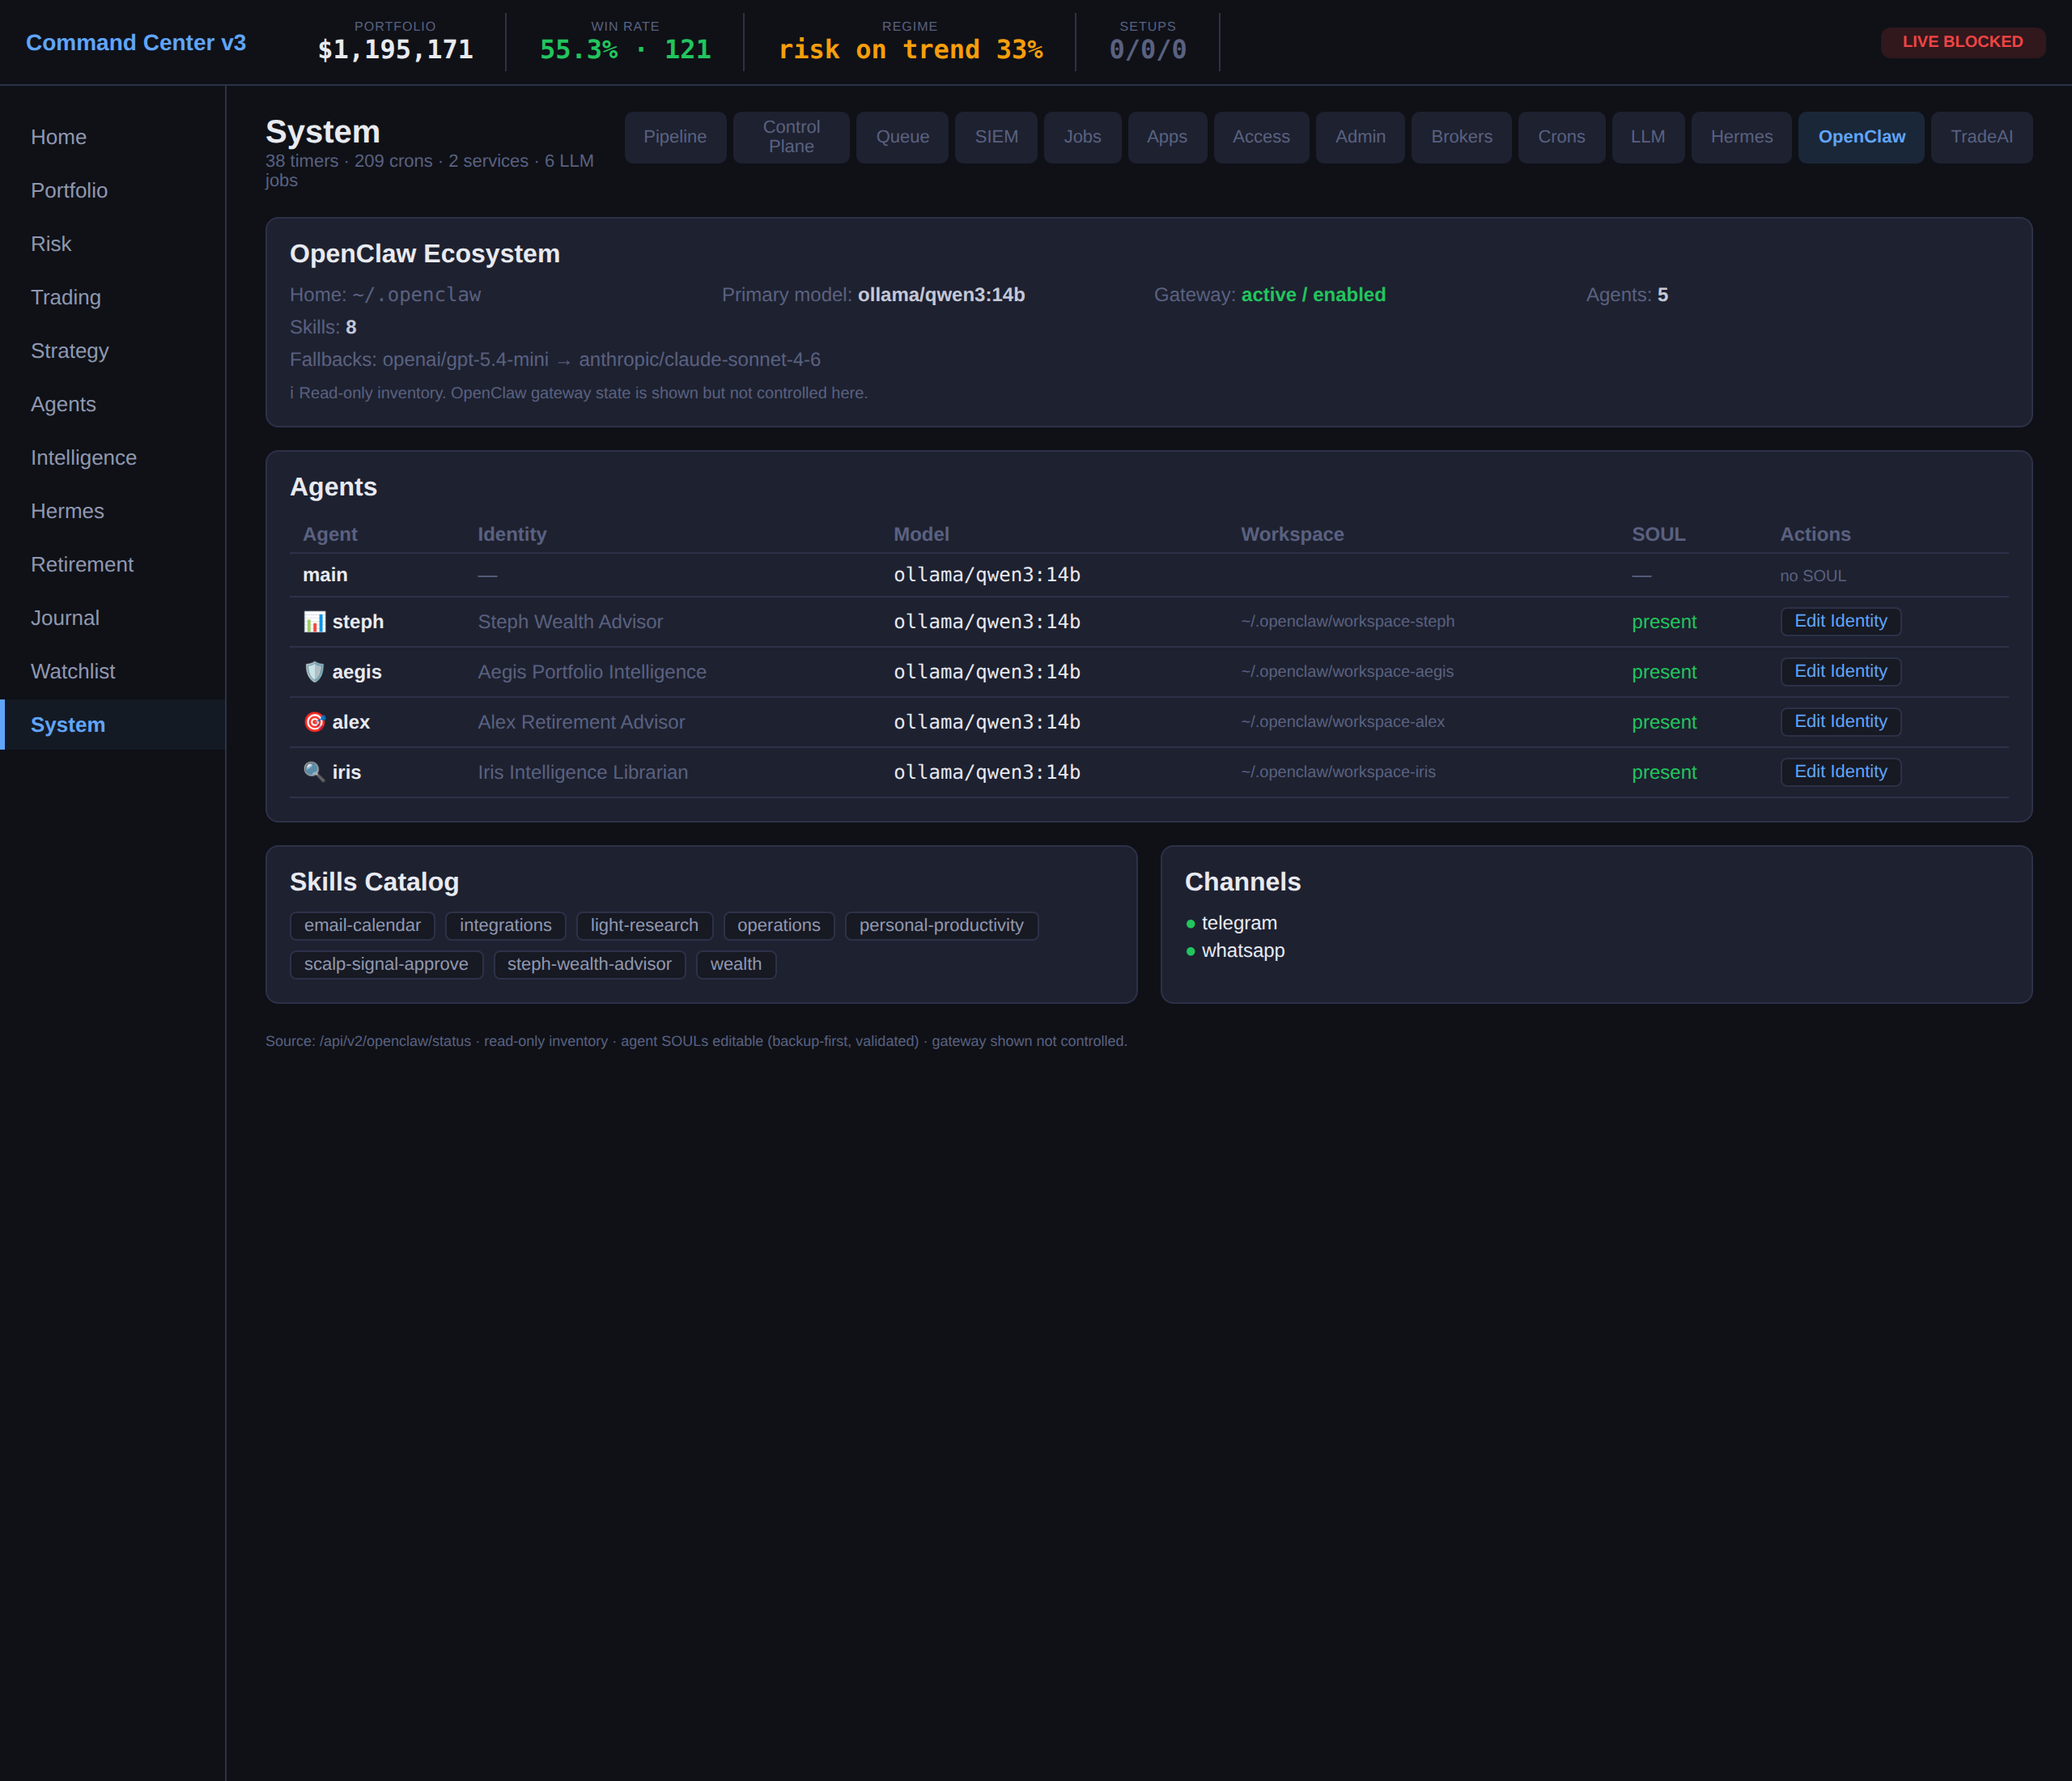
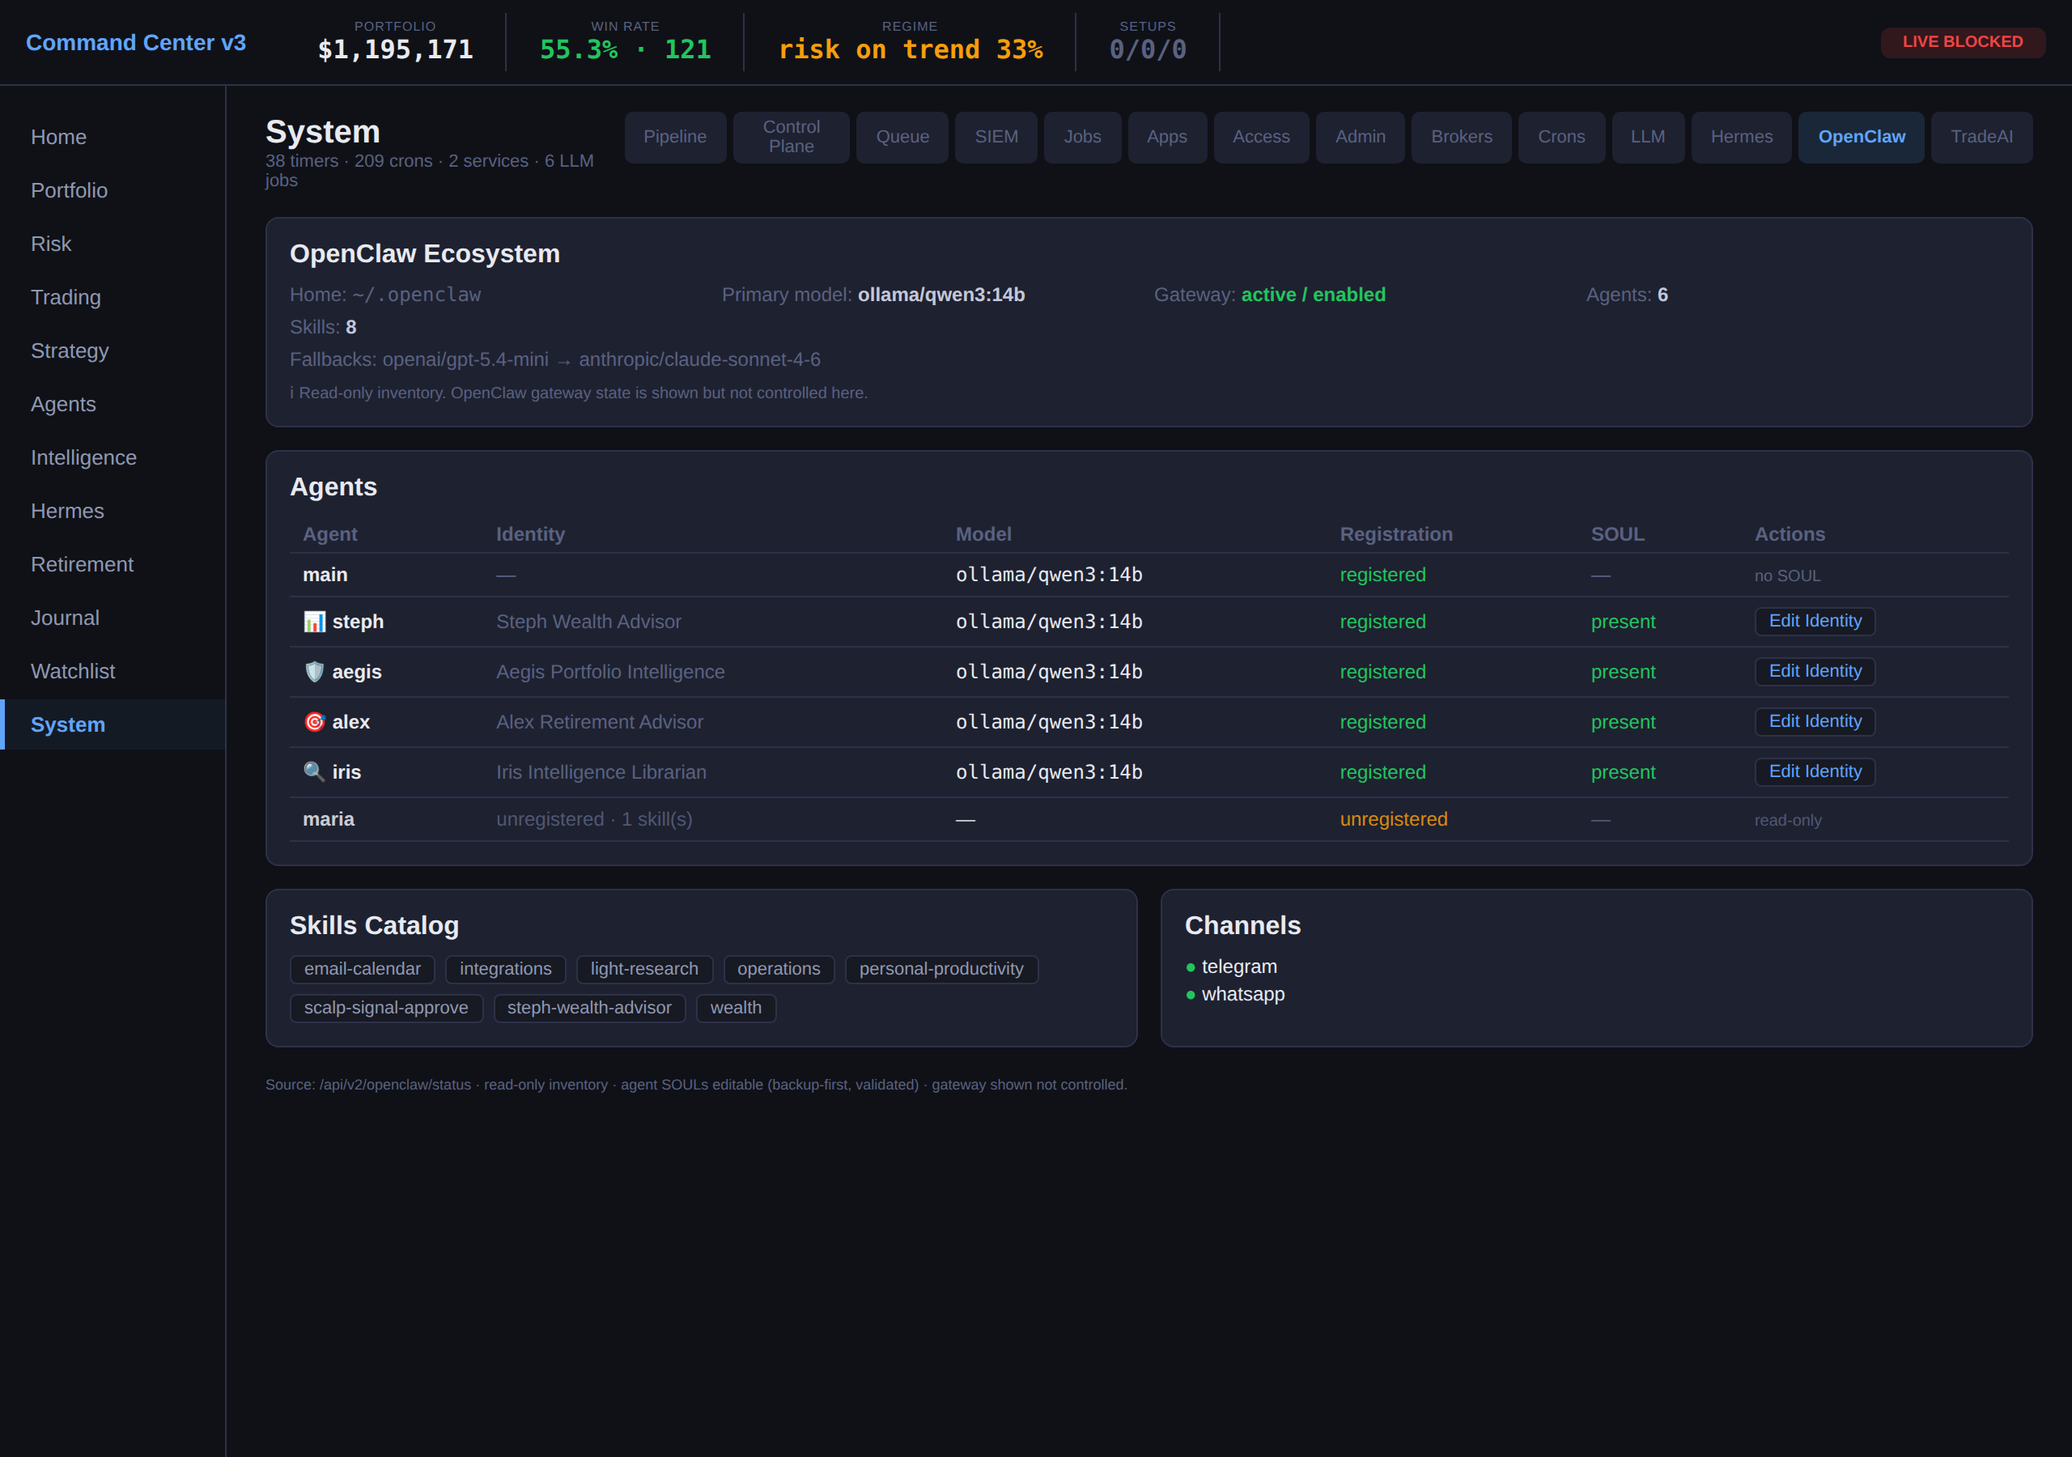
feat: surface unregistered OpenClaw agent dirs (maria) as read-only rows
_openclaw_status now appends on-disk ~/.openclaw/agents/* dirs not in openclaw.json as
read-only rows (registered=false, model/identity none, skills from their skills/ dir).
maria now shows: unregistered, read-only, 1 skill (nyc-dof-auction), no SOUL/edit.
OpenClawPanel adds a Registration column (registered/unregistered) + read-only marker.
v3 build OK, 0 console errors. Editable SOUL stays restricted to registered agents.

Changed region(s): [[0.125, 0.0, 1.0, 0.7467], [0.0, 0.0933, 0.0625, 0.4667], [0.0, 0.0, 0.125, 0.0622]]

diff --git a/apps/command-center-v3/src/components/OpenClawPanel.tsx b/apps/command-center-v3/src/components/OpenClawPanel.tsx
@@ -35,20 +35,20 @@ export default function OpenClawPanel() {
         <div style={{ fontWeight: 700, marginBottom: 8 }}>Agents</div>
         <table style={{ width: '100%', borderCollapse: 'collapse', fontSize: 12 }}>
           <thead><tr style={{ color: 'var(--text3)', textAlign: 'left' }}>
-            {['Agent', 'Identity', 'Model', 'Workspace', 'SOUL', 'Actions'].map(h => <th key={h} style={{ padding: '4px 8px', borderBottom: '1px solid var(--border)' }}>{h}</th>)}
+            {['Agent', 'Identity', 'Model', 'Registration', 'SOUL', 'Actions'].map(h => <th key={h} style={{ padding: '4px 8px', borderBottom: '1px solid var(--border)' }}>{h}</th>)}
           </tr></thead>
           <tbody>
             {(st?.agents || []).map((a: any) => (
-              <tr key={a.id} style={{ borderBottom: '1px solid var(--border)' }}>
+              <tr key={a.id} style={{ borderBottom: '1px solid var(--border)', opacity: a.registered === false ? 0.85 : 1 }}>
                 <td style={{ padding: '6px 8px', fontWeight: 600 }}>{a.emoji ? a.emoji + ' ' : ''}{a.name}</td>
-                <td style={{ padding: '6px 8px', color: 'var(--text3)' }}>{a.identity_name || '—'}</td>
-                <td style={{ padding: '6px 8px' }}><code>{a.model}</code></td>
-                <td style={{ padding: '6px 8px', color: 'var(--text3)', fontSize: 10 }}>{a.workspace}</td>
+                <td style={{ padding: '6px 8px', color: 'var(--text3)' }}>{a.identity_name || (a.registered === false ? `unregistered · ${(a.skills || []).length} skill(s)` : '—')}</td>
+                <td style={{ padding: '6px 8px' }}>{a.model ? <code>{a.model}</code> : '—'}</td>
+                <td style={{ padding: '6px 8px', color: a.registered === false ? '#f59e0b' : '#22c55e' }}>{a.registered === false ? 'unregistered' : 'registered'}</td>
                 <td style={{ padding: '6px 8px', color: a.soul_exists ? '#22c55e' : 'var(--text3)' }}>{a.soul_exists ? 'present' : '—'}</td>
                 <td style={{ padding: '6px 8px' }}>
-                  {a.soul_exists
+                  {a.registered !== false && a.soul_exists
                     ? <button onClick={() => setEditAgent({ id: a.id, title: a.identity_name || a.name })} style={{ fontSize: 11, padding: '2px 8px', border: '1px solid var(--border)', borderRadius: 4, background: 'var(--bg1)', color: '#60a5fa', cursor: 'pointer' }}>Edit Identity</button>
-                    : <span style={{ fontSize: 10, color: 'var(--text3)' }}>no SOUL</span>}
+                    : <span style={{ fontSize: 10, color: 'var(--text3)' }}>{a.registered === false ? 'read-only' : 'no SOUL'}</span>}
                 </td>
               </tr>
             ))}

diff --git a/scripts/api_v2.py b/scripts/api_v2.py
@@ -15457,8 +15457,10 @@ def _openclaw_status(query=None):
     mp = (defaults.get("model") or {})
     model_primary = mp.get("primary")
     rows = []
+    registered_ids = set()
     for a in (agdef.get("list") or []):
         aid = a.get("id")
+        registered_ids.add(aid)
         ident = a.get("identity") or {}
         soul = _openclaw_agent_soul_path(aid)
         idf = OPENCLAW_HOME / "agents" / str(aid) / "agent" / "IDENTITY.md"
@@ -15467,7 +15469,18 @@ def _openclaw_status(query=None):
                      "model": a.get("model") or model_primary,
                      "workspace": str(a.get("workspace") or "").replace(str(Path.home()), "~"),
                      "soul_exists": soul.exists(), "identity_md_exists": idf.exists(),
-                     "skills": a.get("skills") or []})
+                     "skills": a.get("skills") or [], "registered": True})
+    # unregistered agent dirs present on disk but not in openclaw.json (read-only, not editable)
+    adir = OPENCLAW_HOME / "agents"
+    if adir.exists():
+        for d in sorted(p for p in adir.iterdir() if p.is_dir() and p.name not in registered_ids):
+            soul = _openclaw_agent_soul_path(d.name)
+            sk = sorted(s.stem for s in (d / "skills").glob("*.md")) if (d / "skills").is_dir() else []
+            rows.append({"id": d.name, "name": d.name, "identity_name": None, "emoji": None,
+                         "model": None,
+                         "workspace": str(d).replace(str(Path.home()), "~"),
+                         "soul_exists": soul.exists(), "identity_md_exists": False,
+                         "skills": sk, "registered": False})
     skills = sorted([p.name for p in (OPENCLAW_HOME / "skills").glob("*") if p.is_dir()]) \
         if (OPENCLAW_HOME / "skills").exists() else []
     ch = cfg.get("channels") or {}
